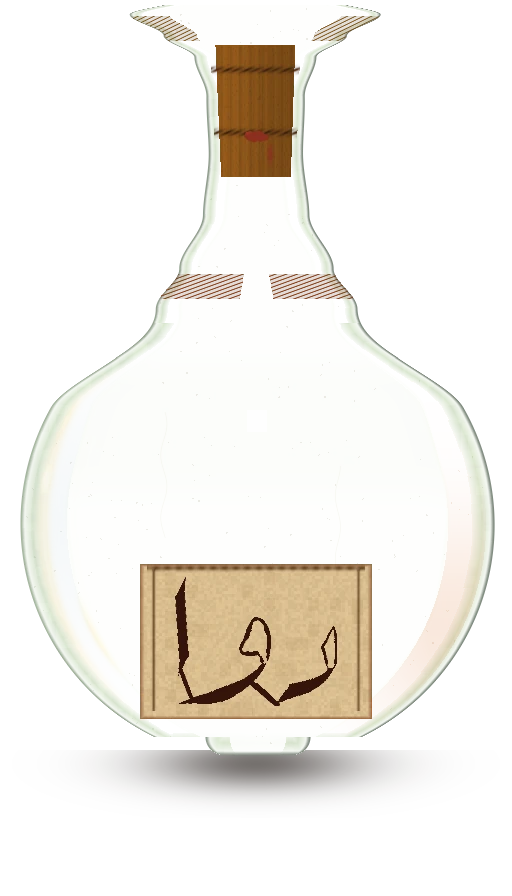
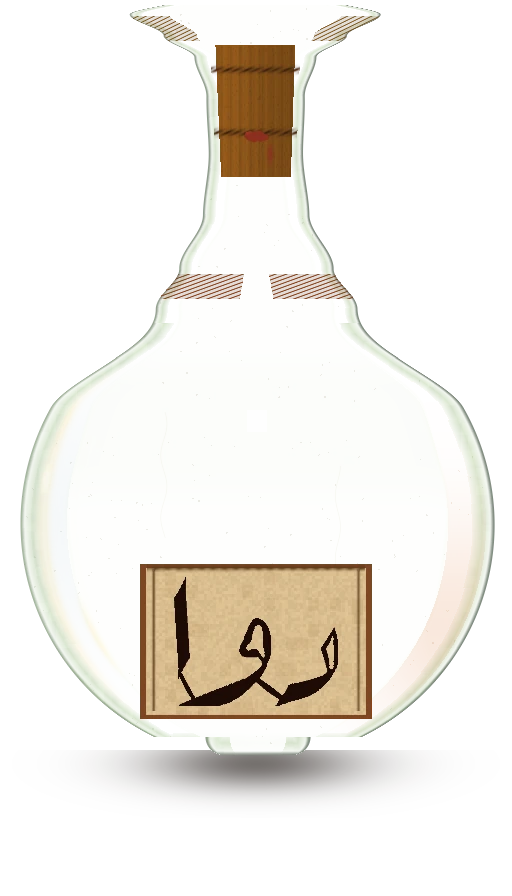
Smooth the liquor gradient and thicken the دوا stroke.
The 18 flat bands were striping the amber fill. One gradient texture
replaces them. The label ink is darker and about 1.6 times wider so
the word reads at game size, with the dal kept and the stray pixel gone.

Changed region(s): [[0.25, 0.625, 0.75, 0.8125]]

diff --git a/Source.V2/tools/bake_flask.py b/Source.V2/tools/bake_flask.py
@@ -228,6 +228,10 @@ def _ink_components(ink, min_n=1):
     return out
 
 
+def _erode_mask(mask, rad):
+    return ~_dilate_mask(~np.asarray(mask, bool), rad)
+
+
 def _dilate_mask(ink, rad):
     out = ink.copy()
     h, w = ink.shape
@@ -338,11 +342,13 @@ def _thin_calligraphy(src):
         top = y0 + int(0.50 * (y1 - y0))
         sel = pts[:, 0] <= top
         yy, xx = pts[sel, 0], pts[sel, 1]
-        core = D[yy, xx] > 0.62 * np.maximum(R[yy, xx], 1.0)
+        # A smaller punch than 0.62 keeps the waw ring closed, like the Ruqaa head.
+        core = D[yy, xx] > 0.74 * np.maximum(R[yy, xx], 1.0)
         punched[yy[core], xx[core]] = False
     D2 = _dist_bg(punched)
     R2 = _maxfilt(D2.astype(np.float32), 8)
-    cut = 0.46 * R2
+    # 0.46 kept a hairline (~1.1 px at game size). 0.34 is about 1.5× that stroke.
+    cut = 0.34 * R2
     thin = punched & ((D2 >= cut) | (D2 + 1.0 >= R2))
     parts = _ink_components(thin, 80)
     if len(parts) < 3:
@@ -504,6 +510,12 @@ def paint(corked: bool) -> np.ndarray:
     rim_a = rim * 0.58 * cover
     thick_rgb = np.clip(np.array([0.74, 0.84, 0.66], np.float32) * (0.96 + 0.06 * grain[..., None]), 0.0, 1.0)
     thick_a = band * np.where(hole, 0.04, 0.50) * cover
+    # Lower bulb only: a pale wall inside the rim, so the base reads as glass.
+    # It stays out of the bore, and it starts below the upper-belly veil.
+    lower = np.clip((v - 0.735) / 0.030, 0.0, 1.0) * np.clip((0.838 - v) / 0.018, 0.0, 1.0)
+    wall_reach = np.clip((12.5 - dist) / 12.5, 0.0, 1.0)
+    wall_reach = wall_reach * ((~hole) & (cover > 0.25) & (dist < 13.0) & (dist > 0.4)).astype(np.float32)
+    thick_a = np.maximum(thick_a, wall_reach * 0.58 * lower)
     line_rgb = np.array([0.90, 0.96, 0.84], np.float32)
     line_a = inner_band * 0.08 * cover
 
@@ -615,7 +627,26 @@ def paint(corked: bool) -> np.ndarray:
     out = np.zeros((H, W, 4), np.float32)
     out[:, :, :3] = premul / safe
     out[:, :, 3] = out_a
-    return np.clip(out, 0.0, 1.0)
+    out = np.clip(out, 0.0, 1.0)
+    _clear_ink_specks(out)
+    return out
+
+
+def _clear_ink_specks(img):
+    """Drop isolated ink pixels, including a diagonal-only touch."""
+    ink = _label_ink(img)
+    parts = _components(ink, 1, False)
+    if len(parts) <= 1:
+        return
+    y0, x0 = int(0.55 * H), int(0.18 * W)
+    paper = np.array([0.86, 0.75, 0.56], np.float32)
+    for pts in parts:
+        if len(pts) > 2:
+            continue
+        for y, x in pts:
+            yy, xx = int(y) + y0, int(x) + x0
+            img[yy, xx, :3] = paper
+            img[yy, xx, 3] = 0.98
 
 
 def _cork(rgb, alpha, u, v, nx, hw_img, over_fn):
@@ -698,13 +729,20 @@ def _label(rgb, alpha, u, v, hw_img, over_fn):
     stain = hash2((u * W).astype(np.int32) // 11, (v * H).astype(np.int32) // 13)
     paper_rgb = np.array([0.86, 0.75, 0.56]) * (0.95 + 0.07 * n)[..., None]
     paper_rgb = np.where((stain > 0.82)[..., None], paper_rgb * 0.92 + np.array([0.45, 0.28, 0.12]) * 0.10, paper_rgb)
-    # A neat thin border on the outer edge, not a scorched fringe.
-    hem = np.clip((edge - 0.962) / 0.038, 0.0, 1.0)
+    # Soft inner shade, then a solid thin border on the visible outline.
+    # The geometric ramp used to miss the top and the clipped bottom.
+    hem = np.clip((edge - 0.94) / 0.06, 0.0, 1.0)
+    # Dark enough to read as a border, red enough that lossy WebP does not
+    # push it under the ink test (r < 0.28 and luma < 70).
+    hem_rgb = np.array([0.48, 0.26, 0.12], np.float32)
     paper_rgb = np.clip(
-        paper_rgb * (1.0 - 0.62 * hem[..., None]) + np.array([0.34, 0.16, 0.07]) * (0.85 * hem[..., None]),
+        paper_rgb * (1.0 - 0.55 * hem[..., None]) + hem_rgb * (0.80 * hem[..., None]),
         0.0,
         1.0,
     )
+    # Solid band on every side, plus the visible outline where the bottle clips a corner.
+    border = paper & ((edge > 0.948) | ~_erode_mask(paper, 3))
+    paper_rgb = np.where(border[..., None], hem_rgb, paper_rgb)
     rgb[:], alpha[:] = over_fn(rgb, alpha, paper_rgb, paper.astype(np.float32) * 0.98)
 
     fibre = 0.62 + 0.38 * (0.5 + 0.5 * np.sin(ru * W * 0.55))
@@ -737,10 +775,10 @@ def _label(rgb, alpha, u, v, hw_img, over_fn):
     ix = np.clip(((mu + 1.0) * 0.5 * (tw - 1)).astype(np.int32), 0, tw - 1)
     iy = np.clip(((mv + 1.0) * 0.5 * (th - 1)).astype(np.int32), 0, th - 1)
     ink = stamp[iy, ix]
-    # Opaque core, soft edge. The previous fade washed the word out at 125 px.
-    tooth = 0.98 + 0.02 * hash2((u * W).astype(np.int32), (v * H).astype(np.int32))
-    ink_a = np.clip((ink - 0.30) / 0.42, 0.0, 1.0) * tooth * on_word.astype(np.float32)
-    rgb[:], alpha[:] = over_fn(rgb, alpha, np.array([0.20, 0.072, 0.034], np.float32), ink_a)
+    # Opaque core. Darker than the round-11 hairline so the word reads at 125 px.
+    tooth = 0.99 + 0.01 * hash2((u * W).astype(np.int32), (v * H).astype(np.int32))
+    ink_a = np.clip((ink - 0.22) / 0.40, 0.0, 1.0) * tooth * on_word.astype(np.float32)
+    rgb[:], alpha[:] = over_fn(rgb, alpha, np.array([0.11, 0.038, 0.016], np.float32), ink_a)
 
 
 def nx_inside(u, v, hw_img):
@@ -878,6 +916,47 @@ def _height_iou(baked, ref, rad):
     return inter / float(union)
 
 
+def _hem_coverage(img):
+    """Fraction of the card's top and bottom rows that read as the dark hem."""
+    luma = 0.299 * img[:, :, 0] + 0.587 * img[:, :, 1] + 0.114 * img[:, :, 2]
+    y0, y1 = int(0.60 * H), int(0.84 * H)
+    x0, x1 = int(0.24 * W), int(0.76 * W)
+    card = img[y0:y1, x0:x1, 3] > 0.90
+    sl = luma[y0:y1, x0:x1]
+    ys = np.where(card.any(axis=1))[0]
+    if len(ys) == 0:
+        return 0.0, 0.0
+
+    def row_cov(y):
+        cols = np.where(card[y])[0]
+        if len(cols) < 8:
+            return 0.0
+        return float((sl[y, cols] < 0.42).mean())
+
+    # The outermost rows can be a single antialiased pixel. Use the first
+    # row that spans most of the card.
+    wide = [int(y) for y in ys if int(card[y].sum()) > 40]
+    if not wide:
+        wide = [int(ys[0]), int(ys[-1])]
+    return row_cov(wide[0]), row_cov(wide[-1])
+
+
+def _opaque_run(alpha, vf):
+    """Consecutive pixels with alpha > 0.40, from the outer edge inward."""
+    y = int(vf * H)
+    row = alpha[y]
+    xs = np.where(row > 0.15)[0]
+    if len(xs) == 0:
+        return 0.0
+    run = 0
+    for x in range(int(xs[0]), int(xs[-1])):
+        if row[x] >= 0.40:
+            run += 1
+        elif run > 0:
+            break
+    return float(run)
+
+
 def verify(open_img, cork_img):
     """Print the measurements the round cares about. Exit 1 on a miss."""
     a = open_img[:, :, 3]
@@ -1008,8 +1087,18 @@ def verify(open_img, cork_img):
     if aspect < 1.12 or iou_d + 1e-6 < iou_w + 0.15 or iou_d < 0.45:
         print("FAIL dal")
         ok = False
-    if not sizes or (len(sizes) > 1 and sizes[1] >= 40):
+    if not sizes or (len(sizes) > 1 and sizes[1] >= 1):
         print("FAIL ink components")
+        ok = False
+    top_cov, bot_cov = _hem_coverage(open_img)
+    print(f"hem coverage top={top_cov:.2f} bottom={bot_cov:.2f}")
+    if top_cov < 0.90 or bot_cov < 0.90:
+        print("FAIL hem")
+        ok = False
+    runs = [_opaque_run(a, vf) for vf in (0.76, 0.79, 0.81)]
+    print(f"lower wall opaque run={runs}")
+    if min(runs) < 3.5:
+        print("FAIL lower wall")
         ok = False
     # Bottom is a chord, not a needle: half-width near the contact stays wide.
     y_bot = int((V_CONTACT - 0.004) * H)
